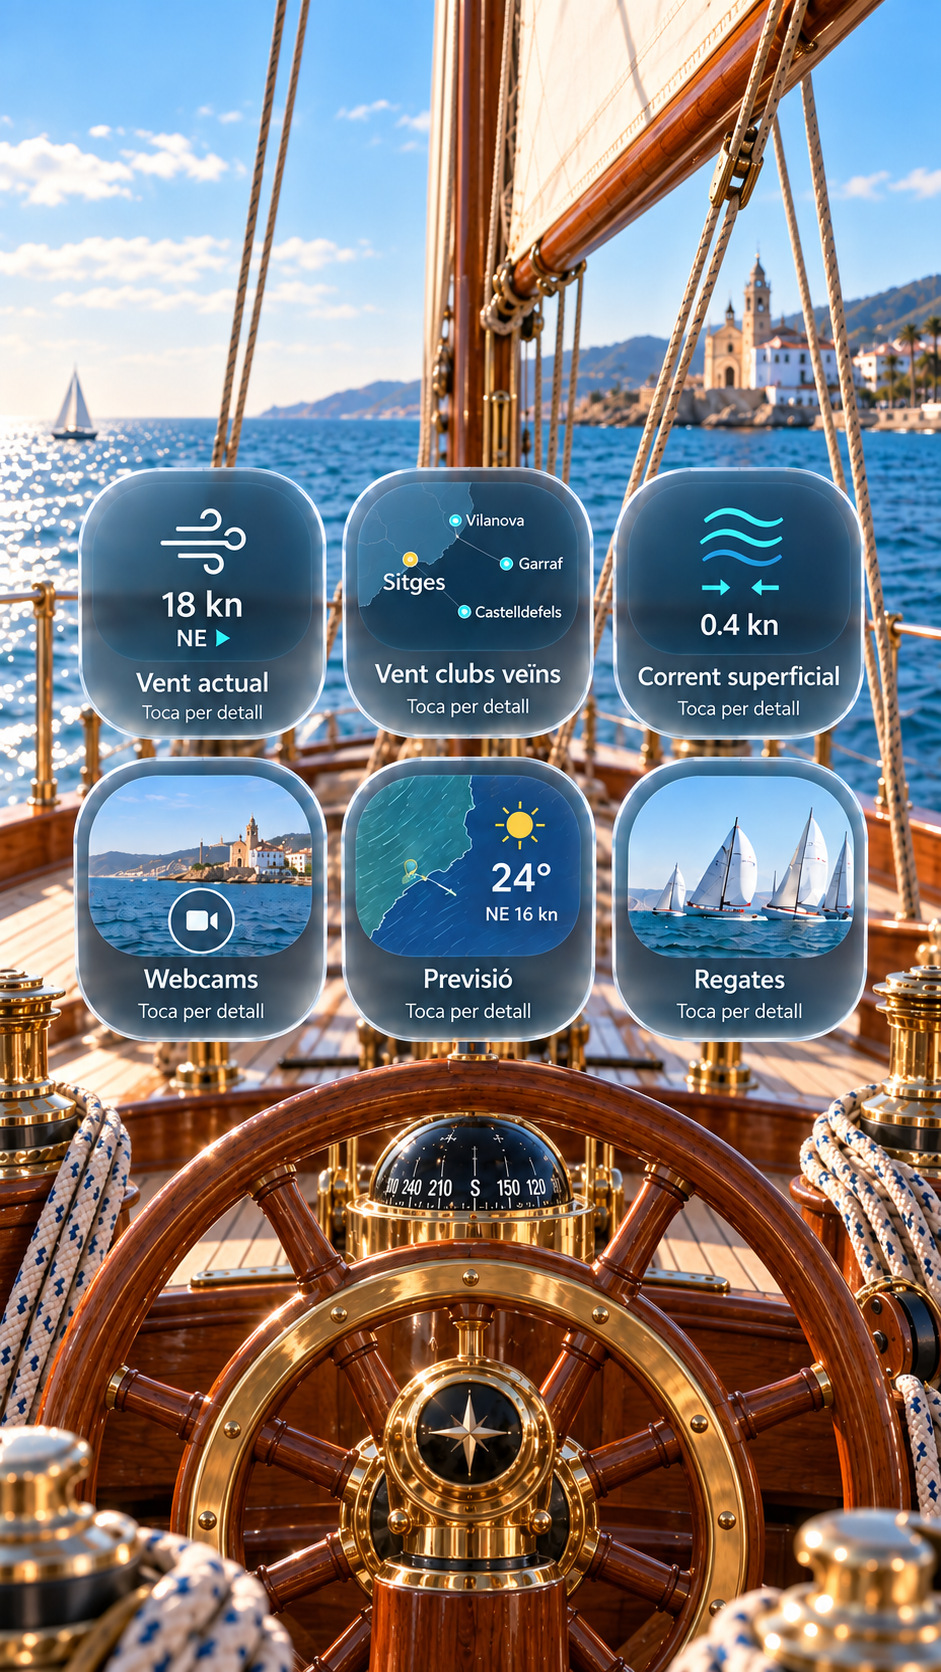
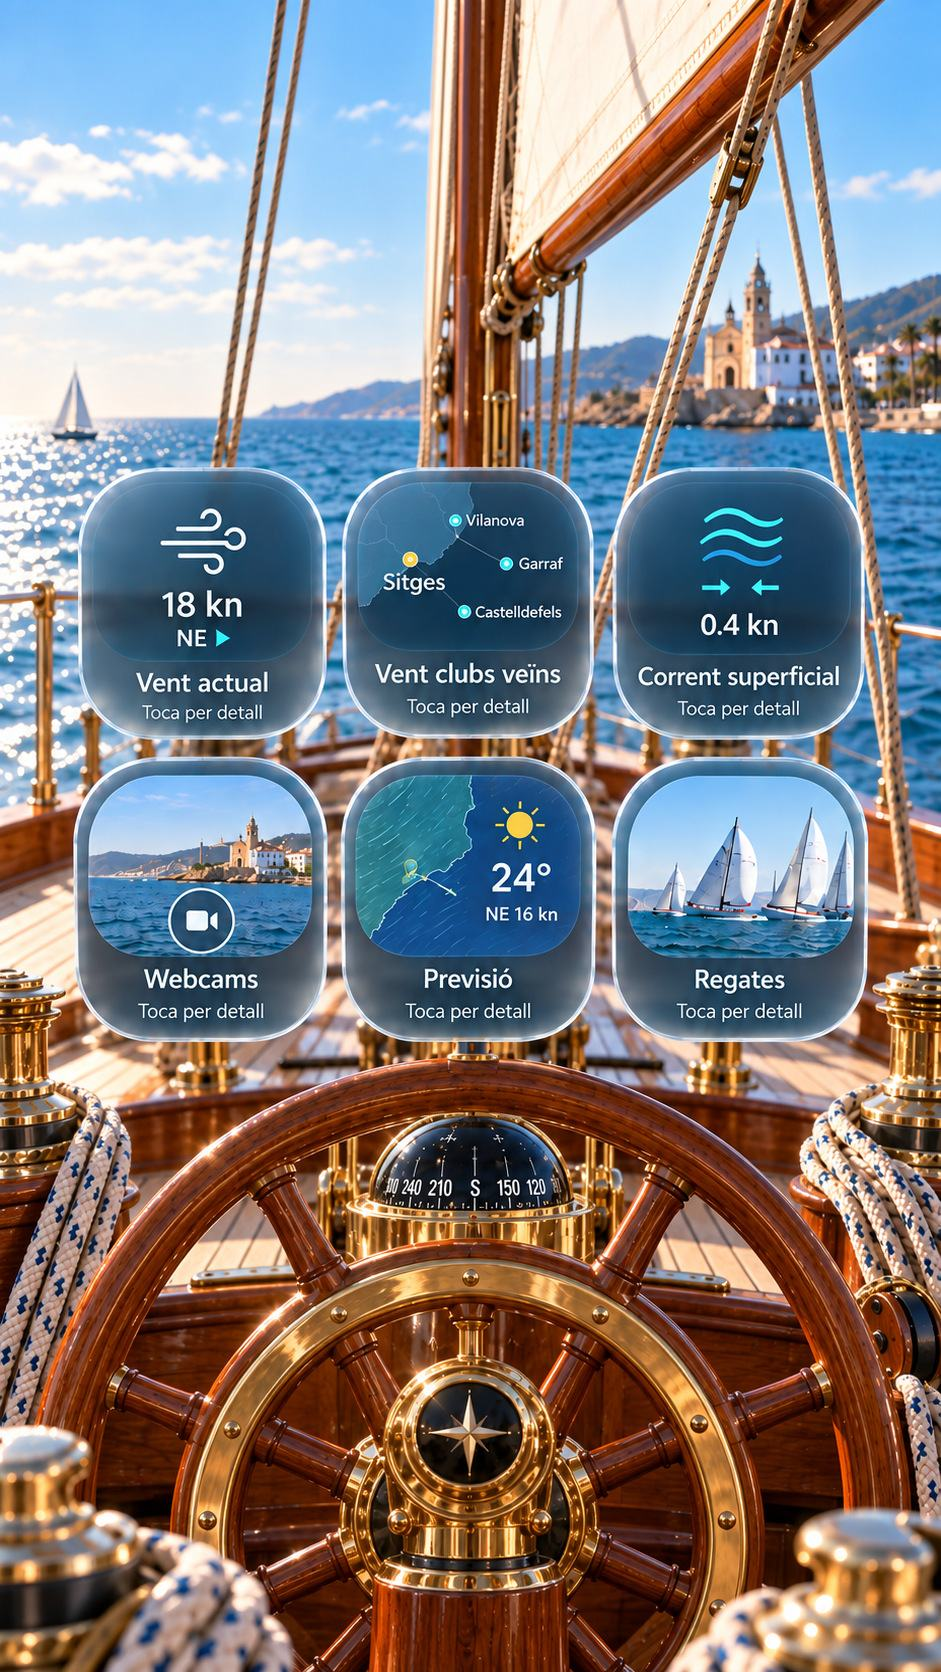
v6.69: imatges optimitzades, l'app pesava 5,5 MB
La captura de l'iPhone ho ensenyava: la foto d'entrada i les miniatures dels
widgets sortien buides perque encara s'estaven baixant.

- Miniatures dels widgets: 620x620 -> 440x440 (es veuen a ~130 px)
- Foto d'entrada del cockpit: recomprimida (366 KB -> 187 KB en webp)
- Targetes: max 620 px d'ample (es veuen a 90 px d'alt)
- regu.png (1,5 MB!) i estela.png passen a JPEG: 1.481 KB -> 70 KB i 142 -> 16
- CLAUDE.md: apuntat el pressupost d'imatges per no repetir-ho

Total: 5,32 MB -> 1,55 MB, un 71% menys.

diff --git a/index.html b/index.html
@@ -1605,7 +1605,7 @@
         <img class="header-photo" src="img/verdi.jpg?v=596" alt="Patí català navegant">
         <div class="header-text">
             <h1>Avui Regu ?<span class="title-accent">&mdash; Sitges &mdash;</span></h1>
-            <div class="subtitle">v6.68<span id="tempsCarrega"></span></div>
+            <div class="subtitle">v6.69<span id="tempsCarrega"></span></div>
         </div>
     </div>
 </header>
@@ -2217,7 +2217,7 @@
             <hr class="category-line line-regata">
             <div class="cards category-cards">
                 <a class="card" href="regu.html">
-                    <img class="card-img" src="img/regu.png" alt="Patins catalans a la platja de Sitges" loading="lazy">
+                    <img class="card-img" src="img/regu.jpg" alt="Patins catalans a la platja de Sitges" loading="lazy">
                     <div class="card-body">
                         <div class="card-name">Regu</div>
                         <div class="card-desc">Classificació i resultats per cursa</div>
@@ -2225,7 +2225,7 @@
                     </div>
                 </a>
                 <a class="card" href="https://estela.co/es">
-                    <img class="card-img" src="img/estela.png" alt="Estela" loading="lazy">
+                    <img class="card-img" src="img/estela.jpg" alt="Estela" loading="lazy">
                     <div class="card-body">
                         <div class="card-name">Estela</div>
                         <div class="card-desc">Cerca Regularitat</div>

diff --git a/sw.js b/sw.js
@@ -1,6 +1,6 @@
 // Service Worker — network-first amb temps límit: sempre intenta la versió nova,
 // però si la xarxa triga més de NET_TIMEOUT serveix la còpia guardada.
-const CACHE_NAME = 'avui-regu-v124';
+const CACHE_NAME = 'avui-regu-v125';
 const NET_TIMEOUT = 3000;   // ms d'espera abans de servir la còpia guardada
 
 // A cada versió nova l'activate esborra la cache anterior, així que la primera

diff --git a/CLAUDE.md b/CLAUDE.md
@@ -60,3 +60,8 @@ Els tabs de la secció meteo (~línia 1692):
 - CartoDB tiles → API key required → Canviat a OSM + filtre CSS fosc
 - Leaflet des d'unpkg.com → fallava → Canviat a cdnjs.cloudflare.com
 - Fletxes vent invertides → +180° a la direcció
+- **Imatges massa pesades** → l'app trigava molt a mòbil (5,5 MB en imatges).
+  El 15-set-2026 es van reoptimitzar: 5,3 MB → 1,55 MB. Regla: les miniatures
+  dels widgets (`.ch-th`) es veuen a ~130 px, o sigui **440 px d'ample com a
+  màxim**; les targetes (`.card-img`) fan 90 px d'alt, **620 px màxim**. Cap
+  foto en PNG (`regu.png` pesava 1,5 MB; en JPEG fa 70 KB).
